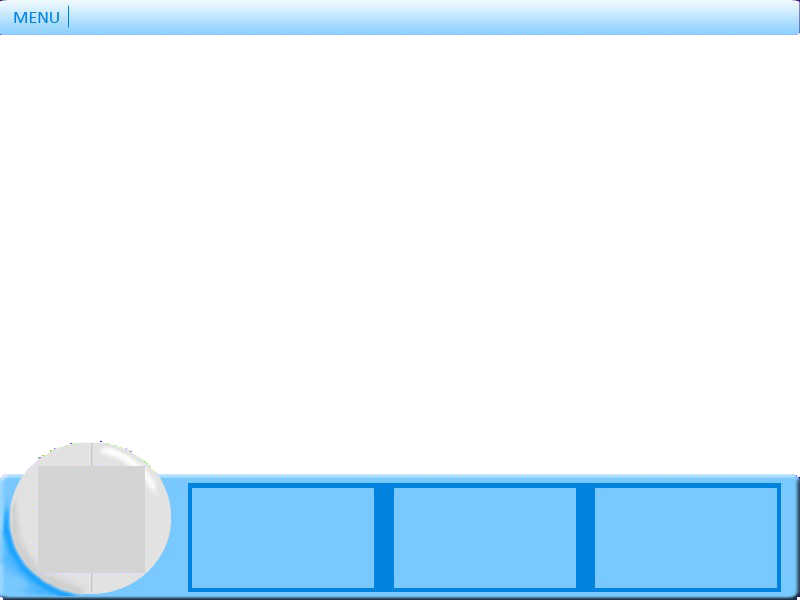
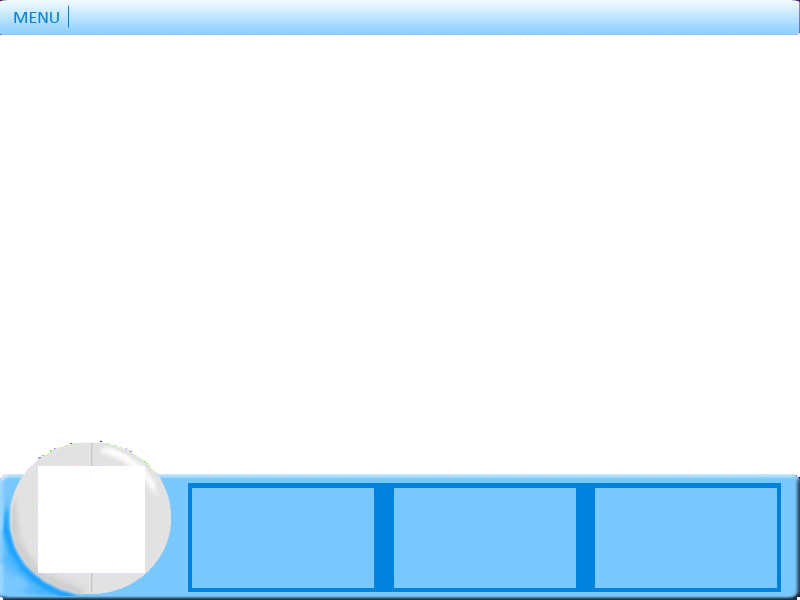
Minimap Moves (Incorrectly) + Renders Nest + Lab

Changed region(s): [[0.0312, 0.75, 0.1875, 0.96]]

diff --git a/Code/Level/TileMap.cs b/Code/Level/TileMap.cs
@@ -32,54 +32,6 @@ namespace VOiD
             _height = 0;
         }
 
-
-
-
-
-
-
-
-
-        public static void AddMipMapLevels(Texture2D texture, Color[] pixels, int size, int minSize, int nextLevel)
-        {
-            if (size < minSize)
-            {
-                return;
-            }
-
-            Color[] newPixels = new Color[size * size];
-            int prevSize = size * 2;
-
-            for (int y = 0; y < size; y++)
-            {
-                for (int x = 0; x < size; x++)
-                {
-                    int offset1 = y * 2 * prevSize + x * 2;
-                    int offset2 = (y * 2 + 1) * prevSize + x * 2;
-                    //Console.WriteLine(x + " " + y + "\n");
-                    // For each channel get the average of 4 pixels from the original pixel array
-                    byte red = (byte)((pixels[offset1].R + pixels[offset1 + 1].R + pixels[offset2].R + pixels[offset2 + 1].R) / 4);
-                    byte green = (byte)((pixels[offset1].G + pixels[offset1 + 1].G + pixels[offset2].G + pixels[offset2 + 1].G) / 4);
-                    byte blue = (byte)((pixels[offset1].B + pixels[offset1 + 1].B + pixels[offset2].B + pixels[offset2 + 1].B) / 4);
-                    byte alpha = (byte)((pixels[offset1].A + pixels[offset1 + 1].A + pixels[offset2].A + pixels[offset2 + 1].A) / 4);
-
-                    newPixels[y * size + x] = new Color(red, green, blue, alpha);
-                }
-            }
-
-
-            texture.SetData<Color>(nextLevel, new Rectangle(0, 0, size, size), newPixels, 0, size * size);
-
-            AddMipMapLevels(texture, newPixels, size / 2, nextLevel++, minSize);
-        }
-
-
-
-
-
-
-
-
         /// <summary>
         /// Creates a new map from a file.
         /// </summary>
@@ -159,10 +111,6 @@ namespace VOiD
                     DebugLog.WriteLine("Error reading tile data from level " + fileName + " error message: \n" + e.Message);
                 }
                 GenerateMipMap(graphicsDevice, ref _map);
-                //Color[] data = new Color[_map.Width*_map.Height];
-                //_map.GetData<Color>(data);
-                //AddMipMapLevels(_map, data, _map.Width / 2, 1, 1);
-
 
                 string pSpawn = sr.ReadLine();
                 string[] split = pSpawn.Split('-');
@@ -215,33 +163,6 @@ namespace VOiD
         {
             if (isLoaded)
                 SpriteManager.Draw(_map, Camera.Transform(Vector2.Zero), Color.White);
-        }
-
-        /// <summary>
-        /// Returns a block of tiles from the map. Only returns XY data.
-        /// </summary>
-        /// <param name="x">The X coordinate of the top left corner of the desired block.</param>
-        /// <param name="y">The Y coordinate of the top left corner of the desired block.</param>
-        /// <param name="width">The width of the block to return.</param>
-        /// <param name="height">The height of the block to return</param>
-        /// <returns></returns>
-        public Point[,] GetTileBlock(int x, int y, int width, int height)
-        {
-            Point[,] block = new Point[width, height];
-
-            try
-            {
-                for (int i = 0; i < width; i++)
-                    for (int j = 0; j < height; y++)
-                        block[i, j] = _tiles[i + x, j + y];
-            }
-            catch (Exception e)
-            {
-                DebugLog.WriteLine("Error retrieving tile block of size at XY "  + x + "," + y + " of width and height " + width + "," + height + " from level located at " + _fileName +
-                    "\nError Message: " +  e.Message + "\n");
-            }
-
-            return block;
         }
 
         private int UnicodeValueToInt(int val)

diff --git a/Code/Level/Minimap.cs b/Code/Level/Minimap.cs
@@ -10,49 +10,45 @@ namespace VOiD
 {
     class Minimap
     {
-        const int WIDTH = 20; const int HEIGHT = 20; // Width and Height of MiniMap in number of regions
-        const int REGION_WIDTH = 8; const int REGION_HEIGHT = 8; // Width and Height of region tiles in pixels
-        int _tileWidth, _tileHeight;
-        Point[,] _regionTiles;
-        Texture2D _tileSet;
+        const int MIPMAP_LEVEL = 3;
         Texture2D minimap;
 
-        /*
-        public void stuff()
+        public Minimap(Texture2D map, Texture2D nestTex, Texture2D labTex, GraphicsDevice graphics)
         {
-            minimap = new Texture2D(GraphicsDevice, WIDTH, HEIGHT,false,SurfaceFormat.Color);
+            int divisor = (int)Math.Pow(2.0, (double)MIPMAP_LEVEL);
 
+            int width = map.Width/divisor;
+            int height = map.Height/divisor;
 
-
-            for (int x = 0; x < WIDTH; x++)
-            {
-                for (int y = 0; y < HEIGHT; y++)
-                {
-                    Rectangle tileblock = new Rectangle(_regionTiles[x, y].X * _tileWidth, _regionTiles[x, y].Y * _tileWidth, REGION_WIDTH, REGION_HEIGHT);
-                    minimap.SetData<Color>(0,_tileSet.GetData<Color>(0,,TileMap,0,, new Vector2(x * REGION_WIDTH, y * REGION_HEIGHT), Color.White);
-                }
-                spriteBatch.End();
-            }
-        }
-        */
-        public Minimap(Texture2D map, GraphicsDevice graphics)
-        {
-            
-            int width = map.Width/8;
-            int height = map.Height/8;
-
+            // Data for MipMaps
             Color[] mapData = new Color[width * height];
+            Color[] nestData = new Color[(nestTex.Width / divisor) * (nestTex.Height / divisor)];
+            Color[] labData = new Color[(labTex.Width / divisor) * (labTex.Height / divisor)];
 
-            map.GetData<Color>(3,null, mapData, 0, mapData.Length);
+            // Get MipMap Data
+            map.GetData<Color>(MIPMAP_LEVEL,null, mapData, 0, mapData.Length);
+            nestTex.GetData<Color>(MIPMAP_LEVEL, null, nestData, 0, nestData.Length);
+            labTex.GetData<Color>(MIPMAP_LEVEL, null, labData, 0, labData.Length);
 
+            // Create Minimap
             minimap = new Texture2D(graphics, width, height);
             minimap.SetData<Color>(mapData);
+            
+            // Impose Nest Textures
+            for (int x = 0; x < map.Width; x+=GameHandler.TileMap.TileWidth)
+                for (int y = 0; y < map.Height; y+=GameHandler.TileMap.TileHeight)
+                    if (GameHandler.CheckNests(new Rectangle(x, y, GameHandler.TileMap.TileWidth, GameHandler.TileMap.TileHeight)))
+                        minimap.SetData<Color>(0, new Rectangle(x/divisor, y/divisor, nestTex.Width / divisor, nestTex.Height / divisor), nestData, 0, nestData.Length);
 
+            // Impose Lab Texture
+            minimap.SetData<Color>(0, new Rectangle((int)GameHandler.TileMap.LabPosition.X / divisor, (int)GameHandler.TileMap.LabPosition.Y/ divisor, labTex.Width / divisor, labTex.Height / divisor),
+                labData, 0, labData.Length);
         }
 
         public void Draw()
         {
-            SpriteManager.Draw(minimap, new Rectangle(50, Configuration.Height-128-10, 128+8, 128), new Rectangle(0, 0, 128, 128), Color.White);
+            SpriteManager.Draw(minimap, new Rectangle(50, Configuration.Height - 128 - 10, 128 + 8, 128), new Rectangle((int)GameHandler.player.Position.X / 8,
+                (int)GameHandler.player.Position.Y / 8, 128, 128), Color.White, 0f, Vector2.Zero, SpriteEffects.None, 1f);
         }
     }
 }

diff --git a/Code/Components/GameHandler.cs b/Code/Components/GameHandler.cs
@@ -25,8 +25,8 @@ namespace VOiD.Components
             : base(game)
         {
             TileMap = new TileMap("TestMap.txt", game.GraphicsDevice, game.Content);
-            _miniMap = new Minimap(TileMap.Map, game.GraphicsDevice);
-            player = new Creature(2345, game.Content.Load<Texture2D>("Sprites\\handler"), GameHandler.TileMap.PlayerSpawn, 1f);
+            _miniMap = new Minimap(TileMap.Map, game.Content.Load<Texture2D>("Sprites\\Nest"), game.Content.Load<Texture2D>("Sprites\\Lab"), game.GraphicsDevice);
+            player = new Creature(2345, game.Content.Load<Texture2D>("Sprites\\handler"), GameHandler.TileMap.PlayerSpawn, 2f);
             inventory = new Inventory(NUMBER_OF_ITEM_TYPES, game.Content);
             Lab = new Entity(game.Content.Load<Texture2D>("Sprites\\Lab"), TileMap.LabPosition, 0f);
         }
@@ -172,6 +172,14 @@ namespace VOiD.Components
                 //_miniMap.draw(spriteBatch);
                 SpriteManager.End();
             }
+        }
+
+        public static bool CheckNests(Rectangle area)
+        {
+            foreach(Nest n in nests)
+                if(n.CollisionRect.Intersects(area))
+                    return true;
+            return false;
         }
     }
 }

diff --git a/Code/Level/Nest.cs b/Code/Level/Nest.cs
@@ -40,11 +40,11 @@ namespace VOiD
             {
                 Point Position = Point.Zero;
 
-                while(Position == playerSpawn)
+                while(Position == playerSpawn || Position.X < 0 || Position.X > mapDimensions.X || Position.Y < 0 || Position.Y > mapDimensions.Y)
                     Position = new Point(rand.Next(_moveArea.X, _moveArea.X + _moveArea.Width),
                         rand.Next(_moveArea.Y, _moveArea.Y + _moveArea.Height));
 
-                creatures.Add(new Creature(ID, creatureTexture, new Vector2(Position.X * tileDimensions.X, Position.Y * tileDimensions.Y), 0.5f));
+                creatures.Add(new Creature(ID, creatureTexture, new Vector2(Position.X * tileDimensions.X, Position.Y * tileDimensions.Y), 1f));
             }
         }
 
@@ -82,5 +82,6 @@ namespace VOiD
         }
 
         public List<Creature> Creatures { get { return creatures; } }
+        public Rectangle CollisionRect { get { return new Rectangle((int)_position.X, (int)_position.Y, _texture.Width, _texture.Height); } }
     }
 }

diff --git a/Code/Level/Entity.cs b/Code/Level/Entity.cs
@@ -83,6 +83,7 @@ namespace VOiD
         public Texture2D Texture { get { return _texture; } }
         public Vector2 Position { get { return _position; } set { _position = value; } }
         public Rectangle CollisionRect { get { return _collisionRect; } }
+        public float MoveSpeed { get { return _moveSpeed; } set { _moveSpeed = value; } }
 
         private Point NewLocation
         {
